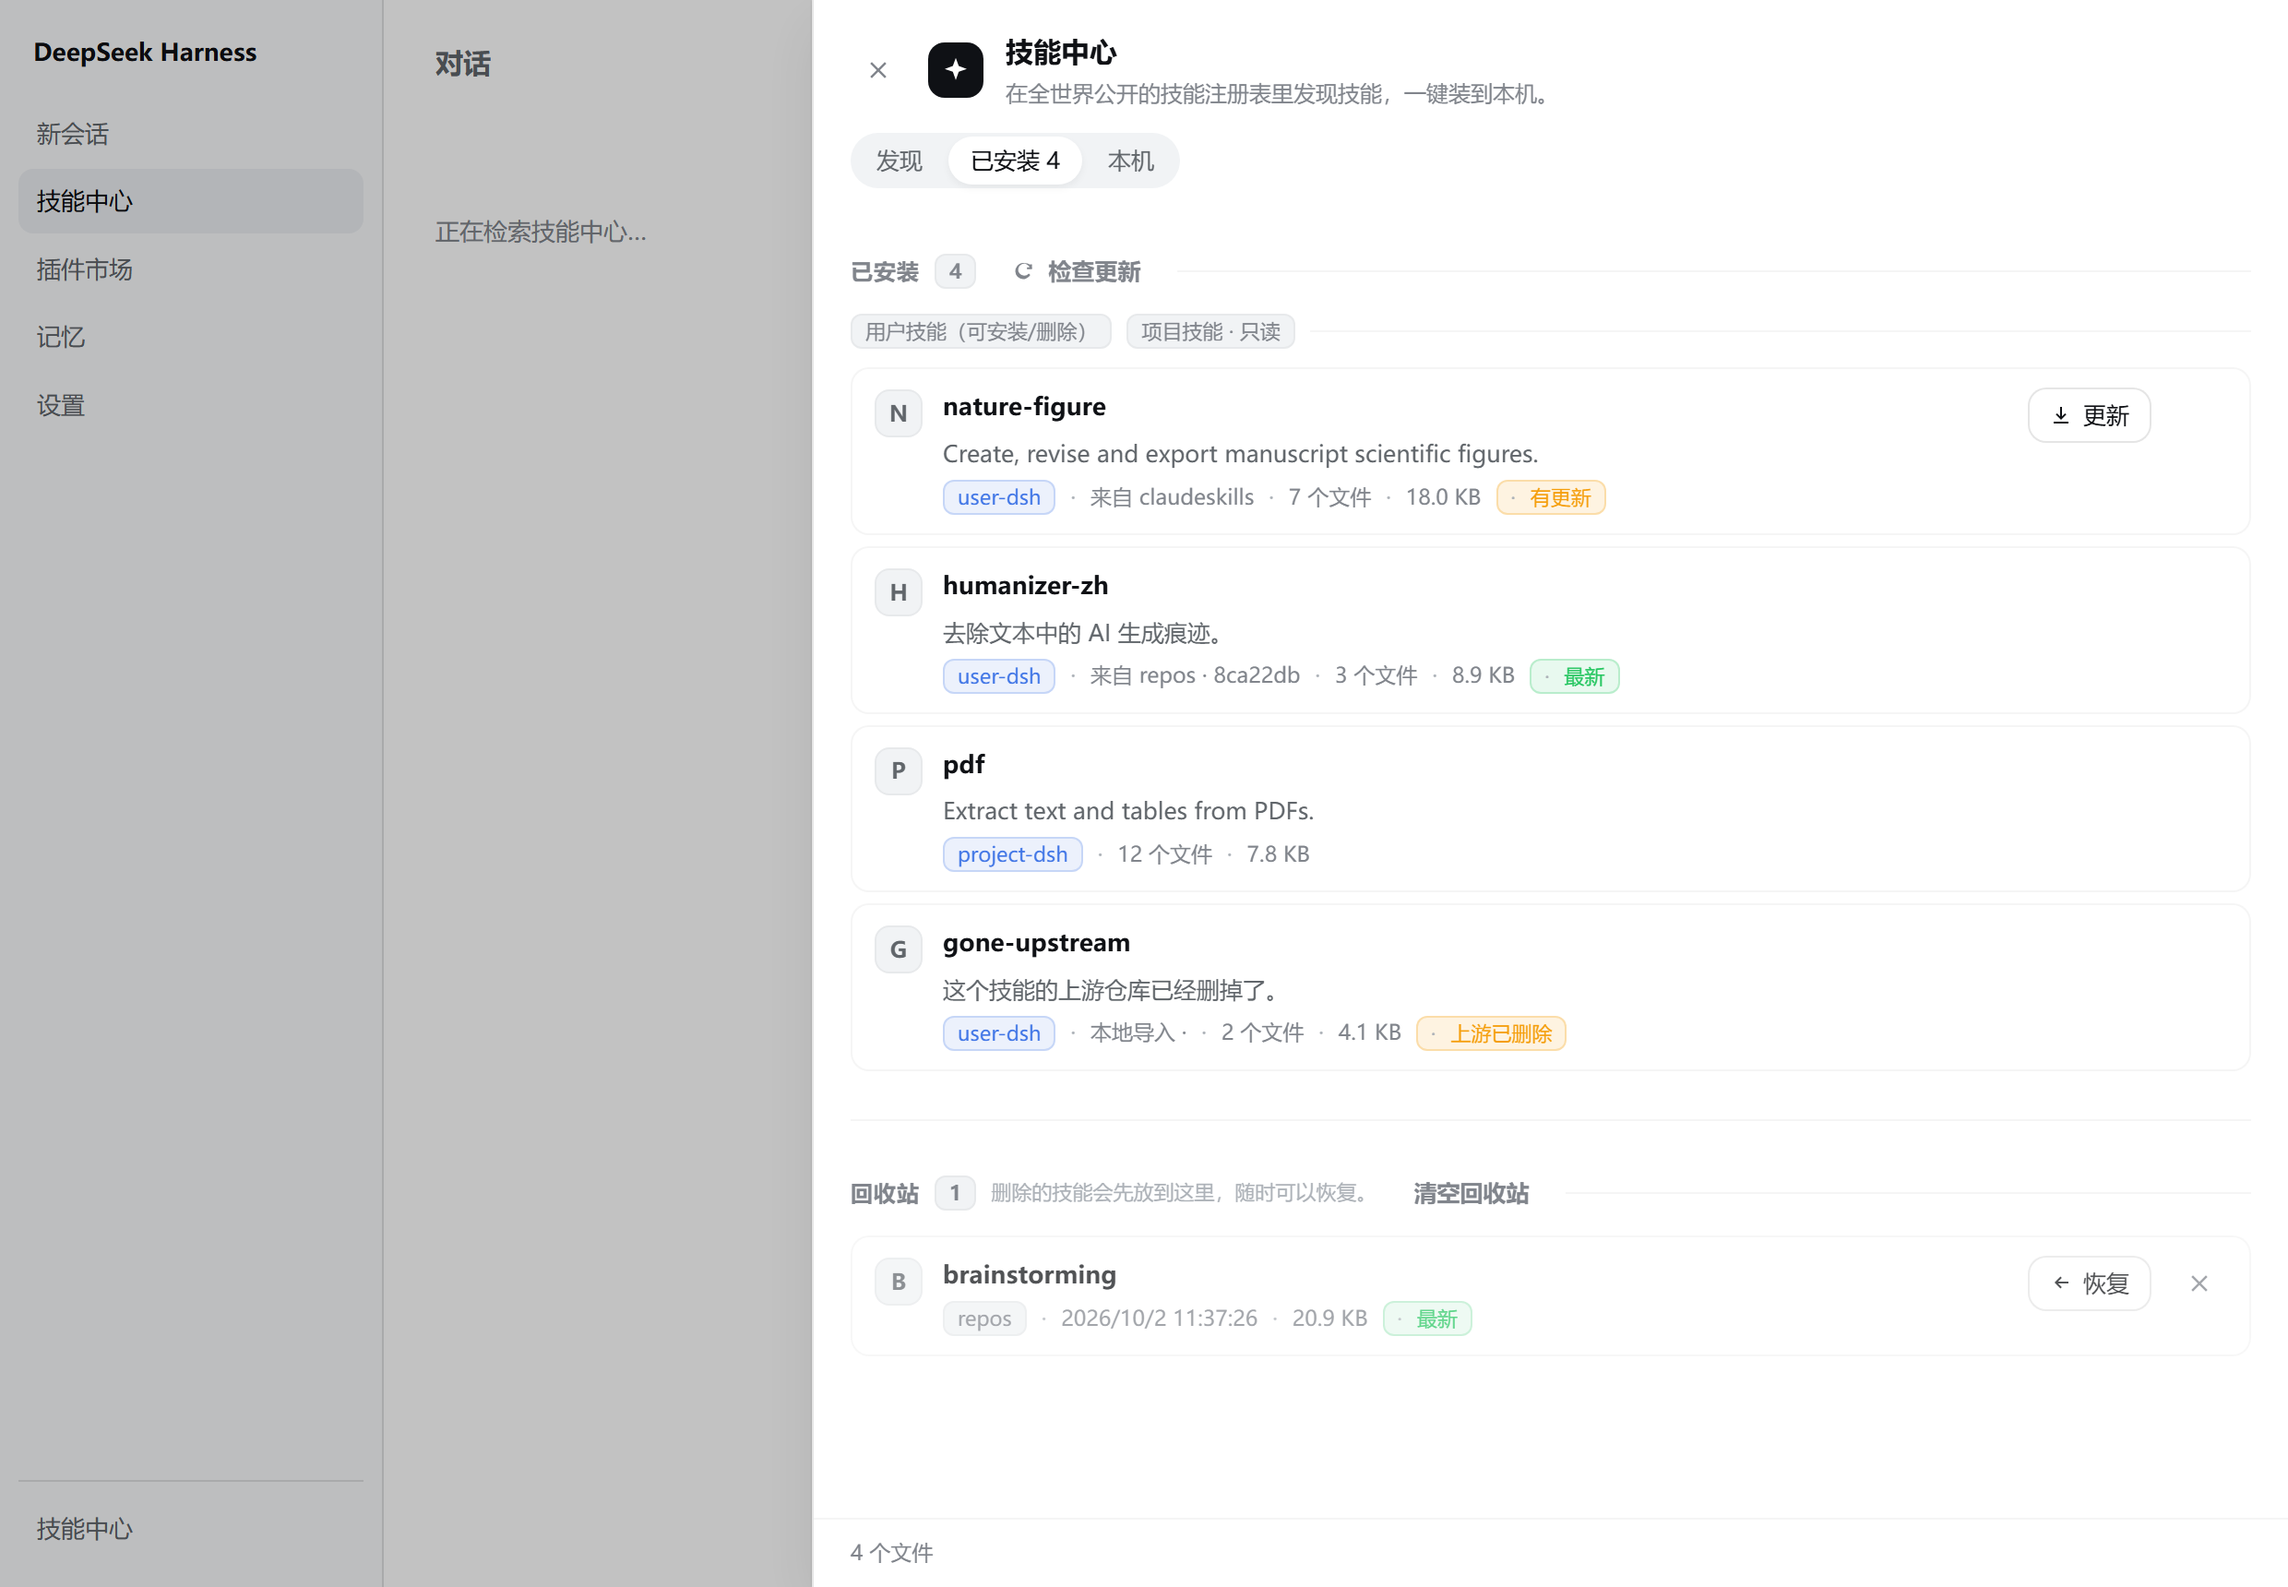
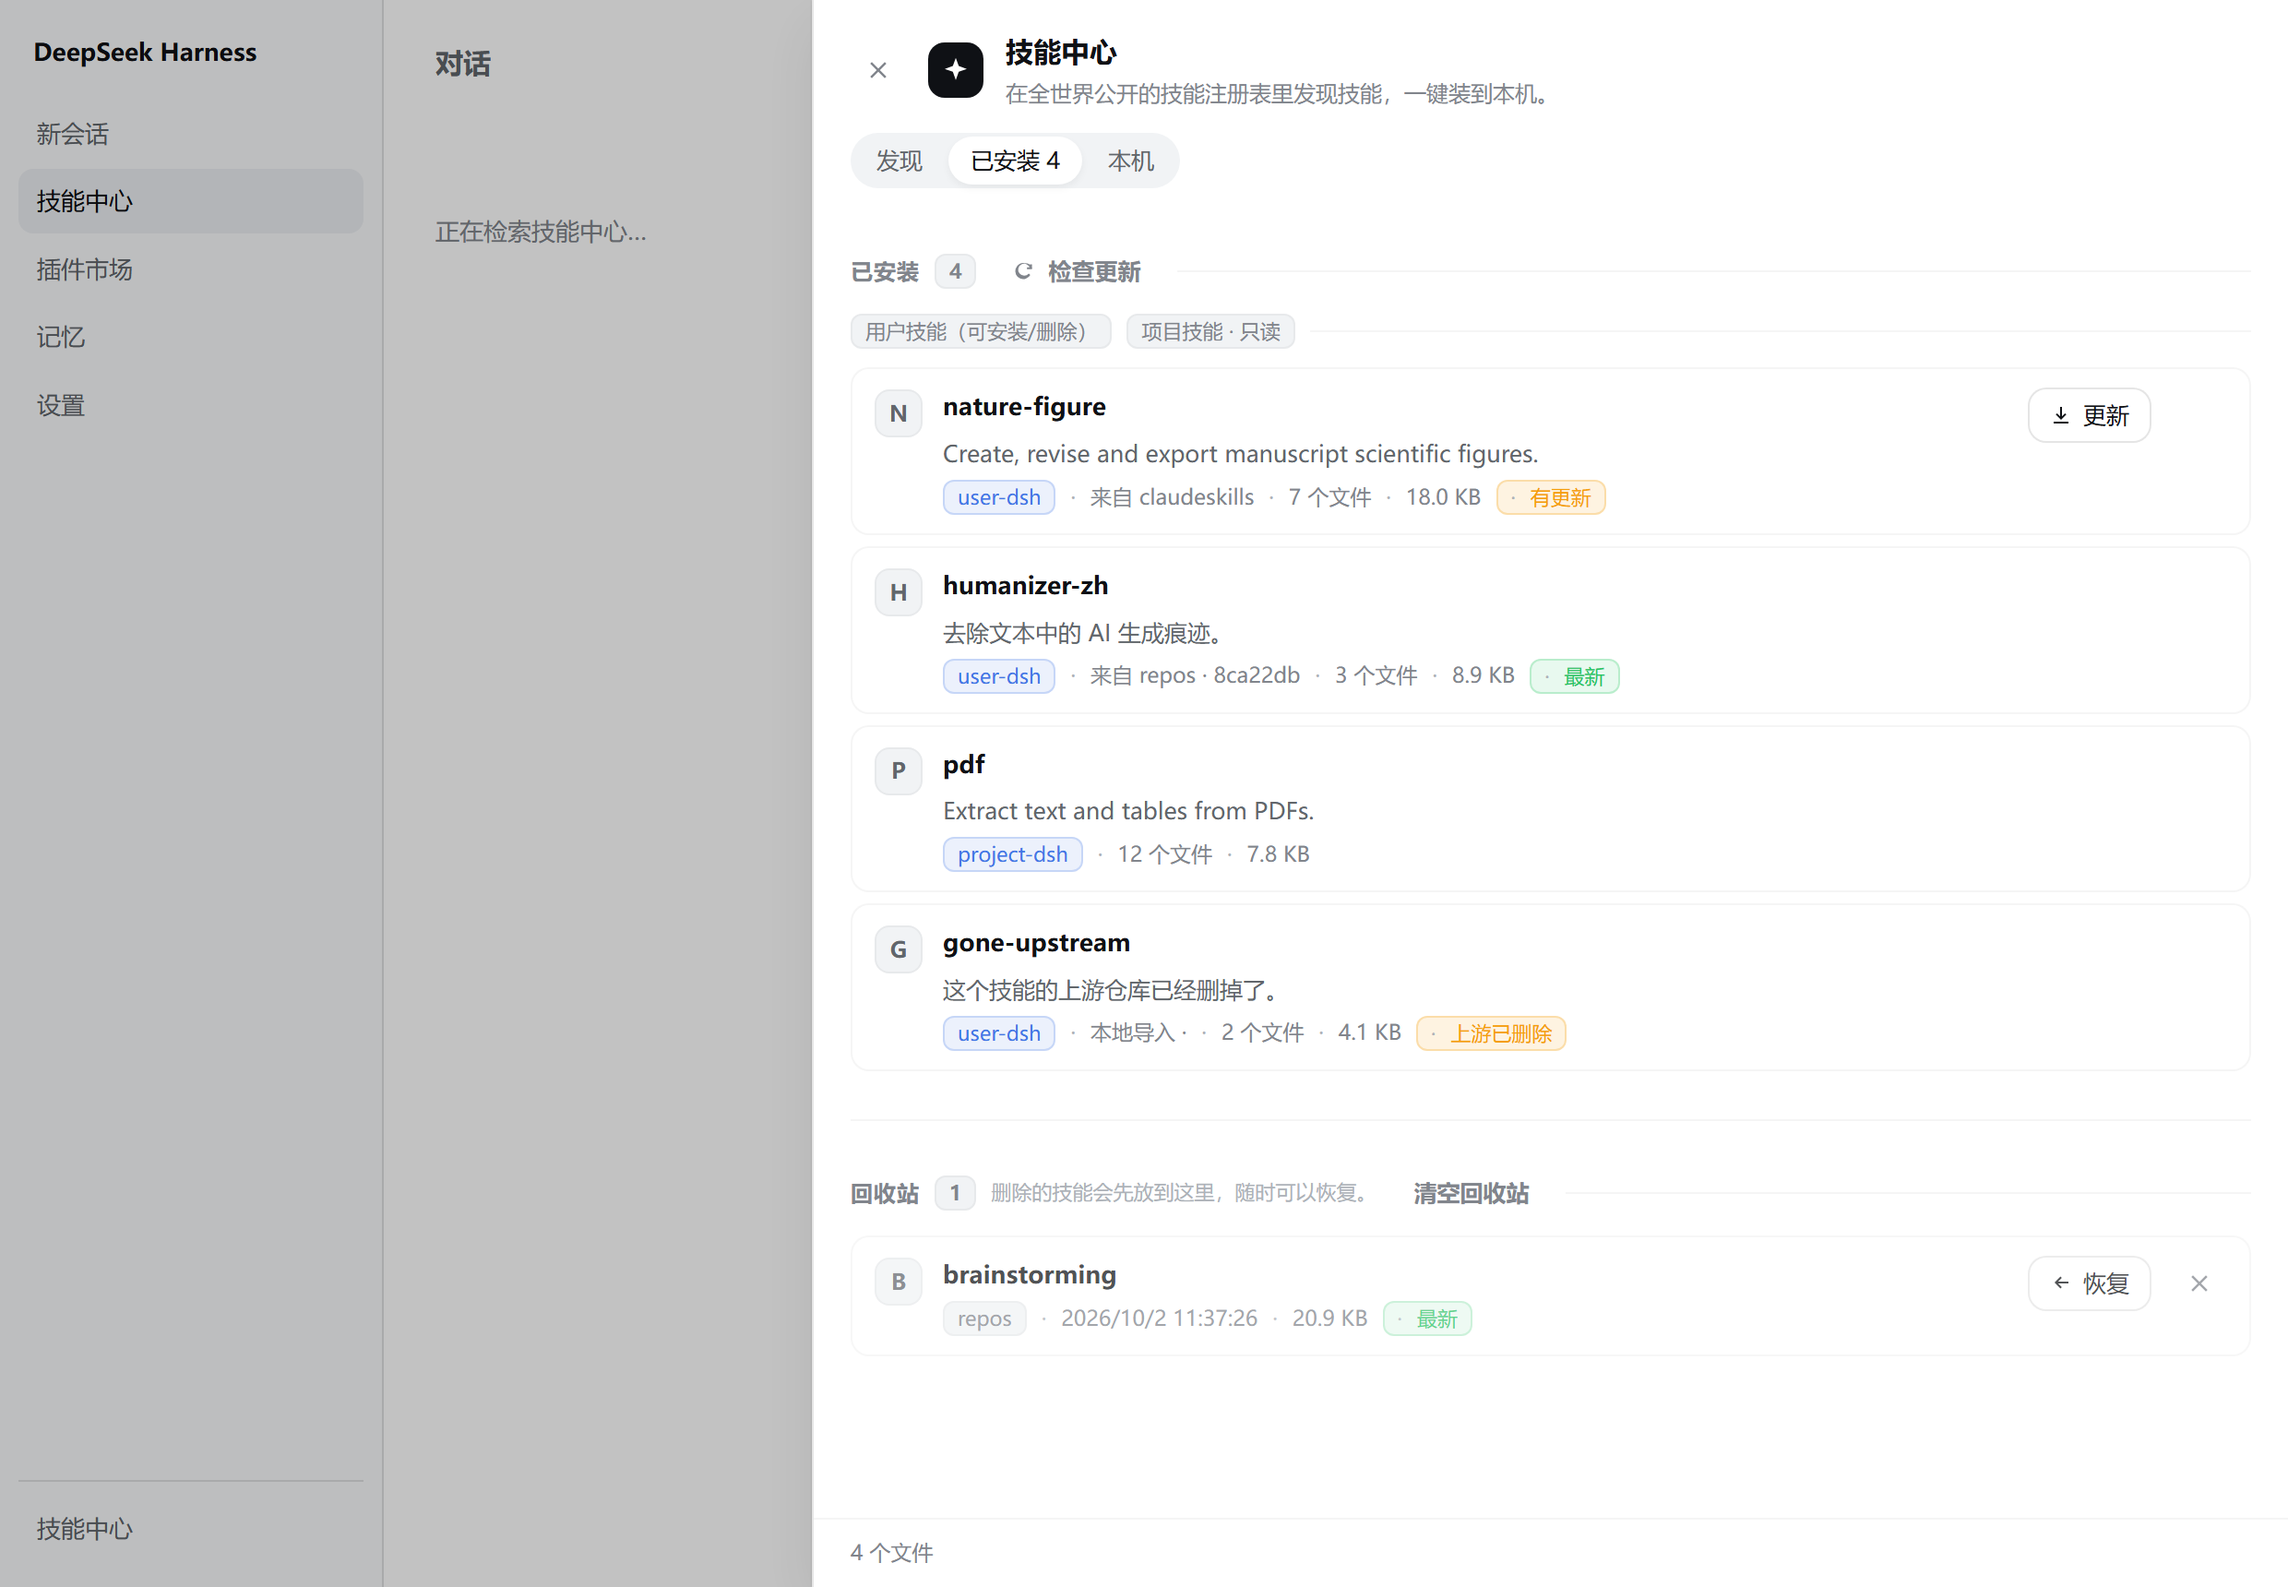
Keep the panel solid under a glass theme
A wallpaper plugin makes the harness translucent by rewriting the
--dsw-alias-bg-layer-* aliases to color-mix(..., transparent). Every surface
that paints itself with those aliases then lets the wallpaper through, and this
panel was one of them -- a list of file trees behind a photograph.

The panel's colour is now painted over an opaque plate taken from the static
palette (--dsw-static-neutral-bluish-*), which no theme rewrites, with the theme
colour composited on top. With no glass theme the two are the same colour, so
nothing moves; with one, the panel stays solid.

docs/probe-glass.mjs turns that into assertions instead of a picture. It does
not ask whether the wallpaper plugin is installed; it asks whether the contract
holds -- once the aliases go translucent, is this surface still opaque? It
applies the shape of the rewrite, reads the panel's computed background with the
rewrite on and off, and forces the declaration the panel used to carry back on
top as a control. Both themes, ten checks, reported through --dump-dom so the
run fails if the panel ever goes translucent again.

Screenshots regenerated. The installed-* pair also picks up the short commit
receipt added in ff50f0c, which had not been re-shot since.

Changed region(s): [[0.652, 0.6471, 0.6831, 0.6779], [0.4347, 0.0308, 0.4657, 0.0616]]

diff --git a/client/client.js b/client/client.js
@@ -330,6 +330,15 @@ window.__ModuleLoader__.load({
   --sc-line: var(--dsw-alias-border-l2, rgba(127,127,127,.18));
   --sc-line-soft: var(--dsw-alias-border-l1, rgba(127,127,127,.10));
   --sc-face: var(--dsw-alias-bg-layer-2, #fff);
+  /* A glass theme (dsh-plugin-wallpaper-engine and its kin) rewrites the
+     the --dsw-alias-bg-layer-* aliases to color-mix(..., transparent) so the
+     wallpaper shows through every host surface. This panel is a surface that
+     must not, so its colour is painted over an opaque plate taken from the
+     static palette, which no theme rewrites. With no glass theme the two are
+     the same colour, so this changes nothing; with one, the panel stays solid.
+     bg-layer-1 is bluish-00 (white) in light and bluish-875 in dark. */
+  --sc-plate: var(--dsw-static-neutral-bluish-00, #fff);
+  --sc-solid: linear-gradient(var(--dsw-alias-bg-layer-1, transparent), var(--dsw-alias-bg-layer-1, transparent)) var(--sc-plate);
   --sc-accent: var(--dsw-alias-link, #4176e6);
   --sc-tone: var(--dsw-alias-label-primary, #0f1115);
   --sc-tone-2: var(--dsw-alias-label-secondary, #61666b);
@@ -340,6 +349,7 @@ window.__ModuleLoader__.load({
   color: var(--sc-tone); font-family: var(--sc-font); font-size: 13px; line-height: 1.6;
   -webkit-font-smoothing: antialiased;
 }
+body[data-ds-dark-theme] .sc-scope { --sc-plate: var(--dsw-static-neutral-bluish-875, #232324); }
 .sc-scope ::-webkit-scrollbar { width: 10px; height: 10px; }
 .sc-scope ::-webkit-scrollbar-thumb {
   background: var(--dsw-alias-scrollbar-bg-l1, rgba(127,127,127,.28));
@@ -357,12 +367,12 @@ window.__ModuleLoader__.load({
   position: relative; z-index: 2147483001;
   width: min(800px, 94vw); height: 100%;
   display: flex; flex-direction: column;
-  background: var(--dsw-alias-bg-layer-1, #fff);
+  background: var(--sc-solid);
   border-left: 1px solid var(--sc-line);
   box-shadow: var(--dsw-shadow-lv3, -18px 0 48px rgba(0,0,0,.18));
   animation: sc-slide .2s cubic-bezier(.22,.61,.36,1);
 }
-.sc-root { display: flex; flex-direction: column; height: 100%; min-height: 0; }
+.sc-root { display: flex; flex-direction: column; height: 100%; min-height: 0; background: var(--sc-solid); }
 .sc-grow { flex: 1; min-width: 0; }
 
 /* ---------------------------------------------------------------- header */
@@ -404,7 +414,7 @@ window.__ModuleLoader__.load({
 .sc-tab:hover { color: var(--sc-tone); }
 .sc-tab.sc-on {
   color: var(--sc-tone);
-  background: var(--dsw-alias-bg-layer-1, #fff);
+  background: var(--sc-solid);
   box-shadow: var(--dsw-shadow-lv1, 0 1px 2px rgba(0,0,0,.10));
   font-weight: 500;
 }
@@ -619,7 +629,7 @@ window.__ModuleLoader__.load({
 .sc-detailbar {
   position: sticky; top: 0; z-index: 3; margin: 0 -20px 12px; padding: 10px 20px;
   display: flex; align-items: center; gap: 8px;
-  background: var(--dsw-alias-bg-layer-1, #fff);
+  background: var(--sc-solid);
   border-bottom: 1px solid var(--sc-line-soft);
 }
 .sc-htitle { font-size: 19px; font-weight: 600; letter-spacing: -.01em; margin: 2px 0 8px; }

diff --git a/README.md b/README.md
@@ -207,6 +207,7 @@ node docs/probe-references.mjs # SKILL.md 引用扫描的误报/漏报
 node docs/probe-agents.mjs     # 其他 Agent 技能目录的发现结果
 node docs/probe-tarball.mjs    # tar.gz 解码器（合成包 + 一个真实仓库）
 node docs/probe-freshness.mjs  # 按 commit 钉住、整棵树比对与缓存命中（真实网络）
+node docs/probe-glass.mjs      # 玻璃主题下这块面板还是不是实心的（先跑一次 preview.mjs）
 ```
 
 两个冒烟测试都不碰真实的 `~/.dsh/skills`（宿主测试写进 `mkdtemp` 临时目录）。
@@ -248,6 +249,15 @@ asar 里的 JS）。`probe-npm-install.mjs` 直接调那个二进制而不是 `.
 harness 就能看到界面**。它顺带发现过两处夹具错误（`counts` 形状、`/item` 响应形状）、
 一处夹具缺口（`/updates` 少顶层 `checkedAt`，页脚渲染成 `Invalid Date`）与一处真 bug
 （完整性提示拼错了字段），值得在改渲染函数后先跑它。
+
+**这块面板不在玻璃主题下让路。** 壁纸类插件把宿主变透明的办法，是把
+`--dsw-alias-bg-layer-*` 这几个别名重写成 `color-mix(…, transparent)`；凡是拿这些别名
+当自己背景的面，壁纸就会透上来。对话气泡透一点没问题，一张罗列文件树的列表不行。所以
+面板的颜色是**画在一块不透明底板上**的：`--sc-plate` 取自静态调色板
+（`--dsw-static-neutral-bluish-*`，任何主题都不改写它），`--sc-solid` 再把主题底色叠在
+它上面。没有玻璃主题时两层同色，等于什么都没改；有玻璃主题时面板仍是实心的。
+`docs/probe-glass.mjs` 把这个约定变成断言：它不问壁纸插件在不在，只问「别名被别人改成
+半透明之后，这块面还实不实」——并且先确认那次改写真的生效了，否则这个测试什么也没证明。
 
 ### 文件
 
